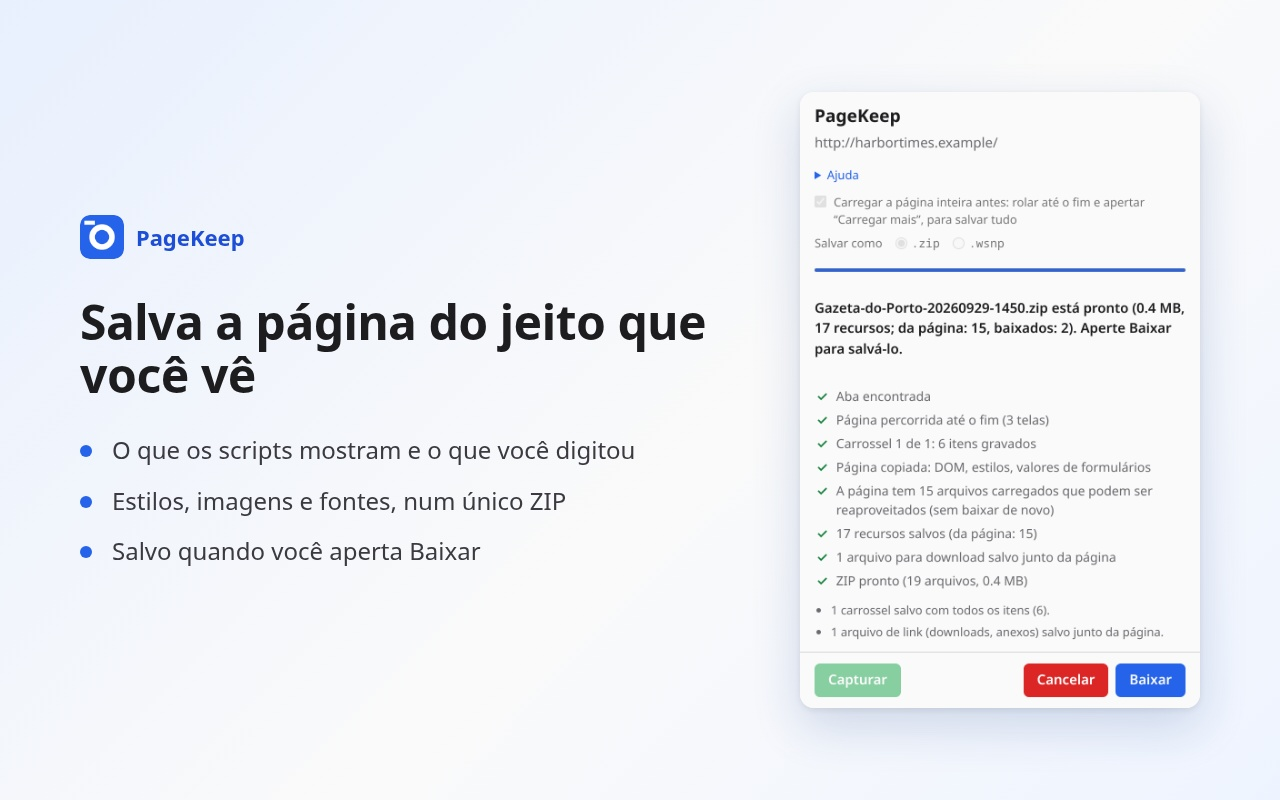
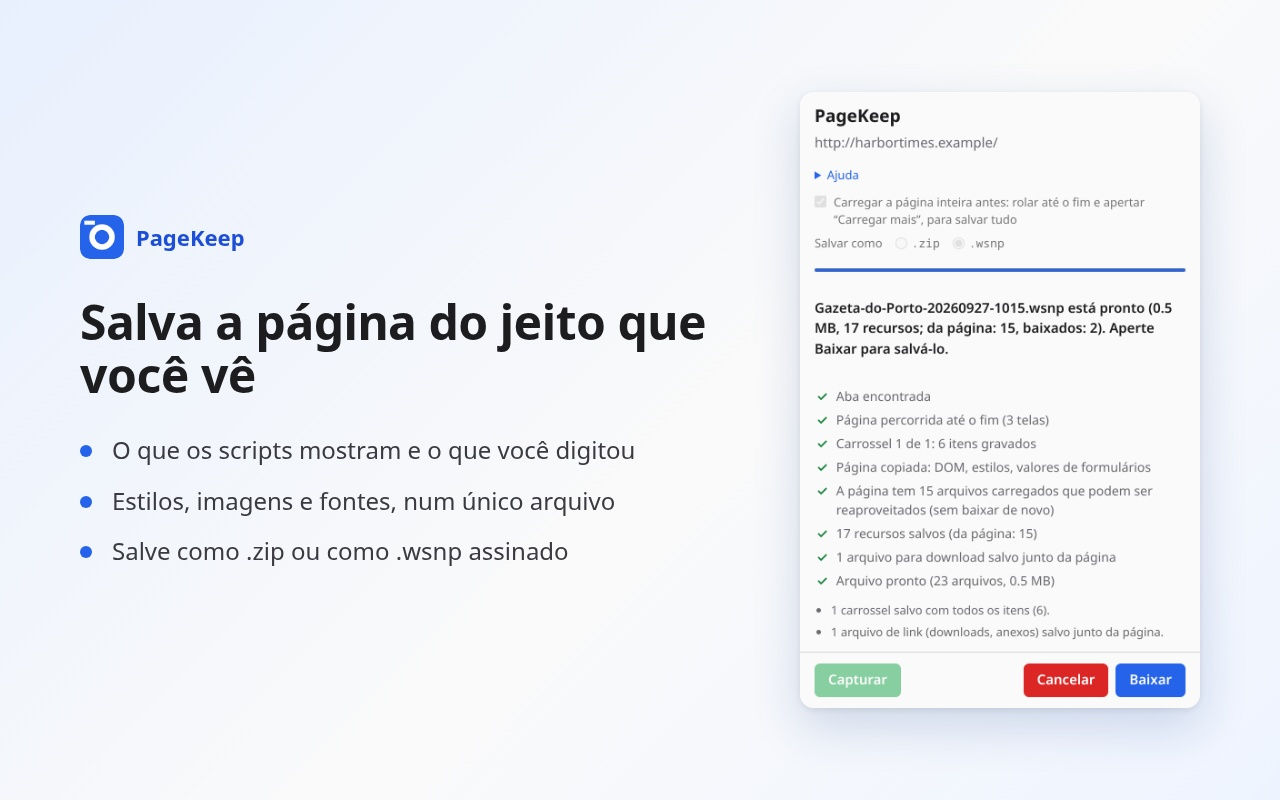
Show the Save as choice with .wsnp in the screenshots and store pictures
The popup's texts say file instead of ZIP where both kinds apply and explain .zip and
.wsnp (container, SHA-256 manifest, signature, signing key). screenshots.mjs saves a
.wsnp, validates it, checks its signature against the key shown in the Help and makes the
same pictures on every run; the store pictures are rebuilt from them.

diff --git a/tests/README.md b/tests/README.md
@@ -25,7 +25,7 @@ automation. Playwright's Chromium (channel `chromium`, "new headless" mode) supp
 - The extension id comes from the service worker URL (`context.serviceWorkers()`).
 - The toolbar popup can be opened from the service worker with `chrome.action.openPopup({ windowId })` (the page's window must be focused), but Playwright does not expose the popup's page. `popup.html` opened in its own window runs the same code and shows the same capture, so tests click its buttons there. See `carousel.mjs`.
 - The extension asks for `activeTab`, which Chrome grants only after a real click on its icon. Tests load a copy of the extension whose manifest lists the test site under `host_permissions` instead (see `carousel.mjs`); files from any other site must then come through the debugger, as in real use.
-- `screenshots.mjs` makes the pictures of the help pages and READMEs (and, with `--out`, of the store). The popup is opened as a page with `chrome.tabs.query` answering with the example tab, and frozen (it ignores later progress) the moment it shows what a shot needs, so the picture is exactly what was checked. The example site is reached as `http://harbortimes.example/` (a made-up news site, `tests/example-site.mjs`) through `--host-resolver-rules`.
+- `screenshots.mjs` makes the pictures of the help pages and READMEs (and, with `--out`, of the store). Every popup shot shows the Save as choice, `.wsnp` selected in the idle, running, done and Help shots and `.zip` in the failed one; the saved `.wsnp` is validated and its signature checked against the fingerprint in the Help, and the pictures are the same on every run (fixed clock in the test copy of the extension, a still progress bar, a sample fingerprint in the Help picture). The popup is opened as a page with `chrome.tabs.query` answering with the example tab, and frozen (it ignores later progress) the moment it shows what a shot needs, so the picture is exactly what was checked. The example site is reached as `http://harbortimes.example/` (a made-up news site, `tests/example-site.mjs`) through `--host-resolver-rules`.
 - `readme-images.mjs` captures a real website (TudoGostoso by default) for the main README's pictures, in `docs/images/readme/`, and fails if the saved copy reaches the network. It needs the internet, so it is not part of the release workflow.
 - `publish-script.mjs` needs no browser either: it runs `.github/scripts/publish-to-chrome-web-store.sh` against a fake store on 127.0.0.1 (bash, curl, jq and openssl required).
 - `library.mjs` tests the offline library the same way as `carousel.mjs`, on a page imitating the most common interactive elements (Bootstrap and Swiper carousels with dots, a photo gallery, modals, dialogs, dropdowns, accordions, tabs).
